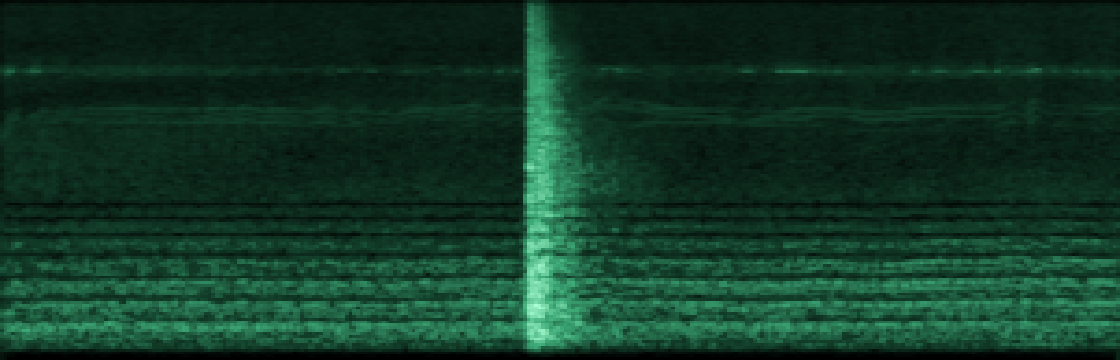
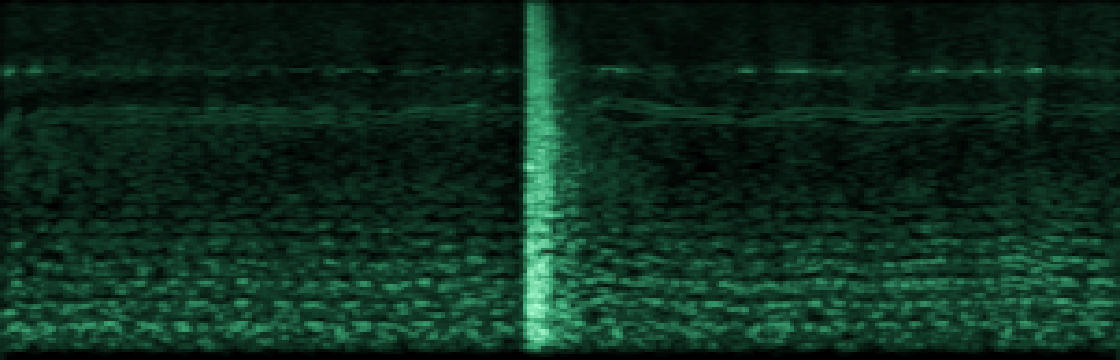
motion graphics progress

diff --git a/movie/src/Scene3.tsx b/movie/src/Scene3.tsx
@@ -506,17 +506,29 @@ export const Scene3: React.FC = () => {
   const scenarios = manifest.scenarios as unknown as Scenario[];
   return (
     <AbsoluteFill style={{ background: "black" }}>
-      <TacticalGrid />
-      {scenarios.map((s, i) => (
-        <Sequence key={s.id} from={s.startFrame} durationInFrames={s.frames}>
-          <ScenarioBlock
-            scenario={s}
-            scenarioIndex={i}
-            totalScenarios={scenarios.length}
-          />
-        </Sequence>
-      ))}
-      <FrameCounter frame={frame} />
+      <div
+        style={{
+          position: "absolute",
+          top: 0,
+          left: 0,
+          width: FRAME_WIDTH,
+          height: FRAME_HEIGHT,
+          transform: "scale(1.5)",
+          transformOrigin: "top left",
+        }}
+      >
+        <TacticalGrid />
+        {scenarios.map((s, i) => (
+          <Sequence key={s.id} from={s.startFrame} durationInFrames={s.frames}>
+            <ScenarioBlock
+              scenario={s}
+              scenarioIndex={i}
+              totalScenarios={scenarios.length}
+            />
+          </Sequence>
+        ))}
+        <FrameCounter frame={frame} />
+      </div>
     </AbsoluteFill>
   );
 };

diff --git a/movie/src/Root.tsx b/movie/src/Root.tsx
@@ -28,8 +28,8 @@ export const Root: React.FC = () => {
         component={Scene3}
         durationInFrames={spectrogramManifest.totalFrames}
         fps={spectrogramManifest.fps}
-        width={1280}
-        height={720}
+        width={1920}
+        height={1080}
       />
     </>
   );

diff --git a/detection/build_spectrograms.py b/detection/build_spectrograms.py
@@ -71,6 +71,11 @@ SCENARIOS = [
     {"id": "missile", "title": "MISSILE LAUNCH under DRONE BUZZ", "start_sec": 11.0},
 ]
 
+# For these scenarios, regenerate the "after" track by running the live REPET-enhanced
+# denoise on the raw mix instead of using the disk-cached _preprocessed.wav (which was
+# produced by a weaker pipeline and stays close to the mix).
+RE_DENOISE = {"gunshot"}
+
 
 def best_window_time(
     audio: np.ndarray, sr: int, target_label: str, apply_wind_hp: bool,
@@ -135,6 +140,8 @@ def trim_audio(audio: np.ndarray, sr: int, start_sec: float, length_sec: float) 
     return clip
 
 
+
+
 def main() -> None:
     OUT_DIR.mkdir(parents=True, exist_ok=True)
     manifest = {
@@ -183,7 +190,11 @@ def main() -> None:
 
         # Trim both audios to the same window.
         trimmed_mix = trim_audio(full_mix, sr, start_sec, AUDIO_LEN_SEC)
-        trimmed_pre = trim_audio(full_pre, sr, start_sec, AUDIO_LEN_SEC)
+        if sid in RE_DENOISE:
+            re_pre, _ = prepare_audio_for_detection(full_mix, sr, denoise=True)
+            trimmed_pre = trim_audio(re_pre, sr, start_sec, AUDIO_LEN_SEC)
+        else:
+            trimmed_pre = trim_audio(full_pre, sr, start_sec, AUDIO_LEN_SEC)
 
         raw_wav = OUT_DIR / f"{sid}_raw.wav"
         pre_wav = OUT_DIR / f"{sid}_pre.wav"